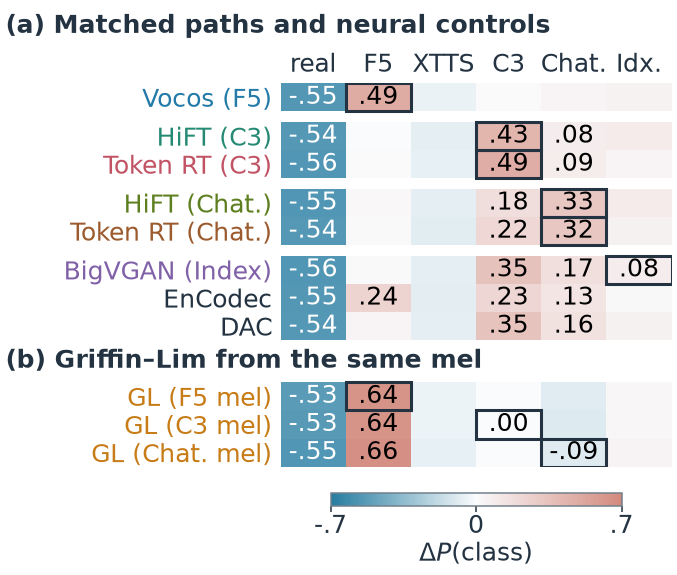
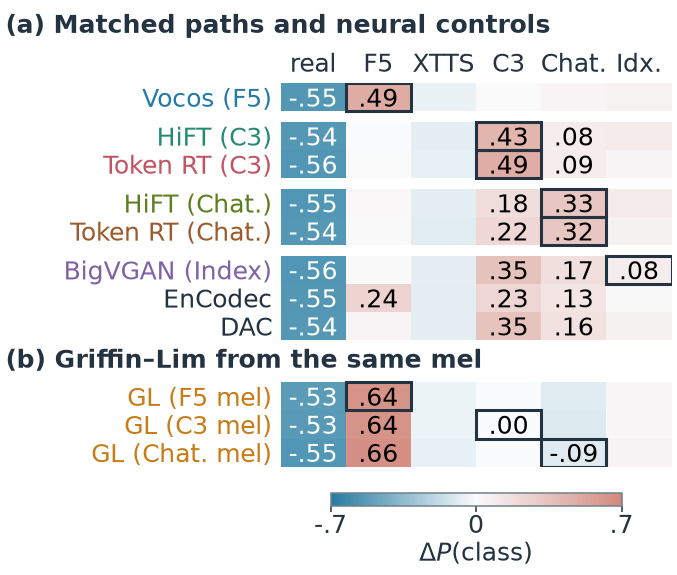
Center the cell numbers vertically in Fig. 1

diff --git a/src/plot_figures2.py b/src/plot_figures2.py
@@ -145,7 +145,9 @@ def fig_intervention():
                     # threshold, the boxed target cell, and the two CosyVoice3 -> Chatterbox cross-shifts
                     # (.08/.09) that the text compares with the .18/.22 in the other direction
                     if abs(v) >= .10 or cl == t or (cl == "chatterbox" and p in ("resynth_hift3", "resynth_s3vc3")):
-                        ax.text(jx, y, f"{v:.2f}".replace("0.", "."), ha="center", va="center",
+                        # va="center" centers the bbox including the descender, which lifts digits by
+                        # ~0.12 em; nudge down (the y axis is inverted) so the glyphs sit mid-cell
+                        ax.text(jx, y + .10, f"{v:.2f}".replace("0.", "."), ha="center", va="center",
                                 color="white" if jx == 0 else "black", fontsize=9, zorder=4)
                 if t:
                     ax.add_patch(Rectangle((classes.index(t) - .5, y - .5), 1, 1, fill=False, lw=1.1, edgecolor=INK, zorder=5))
